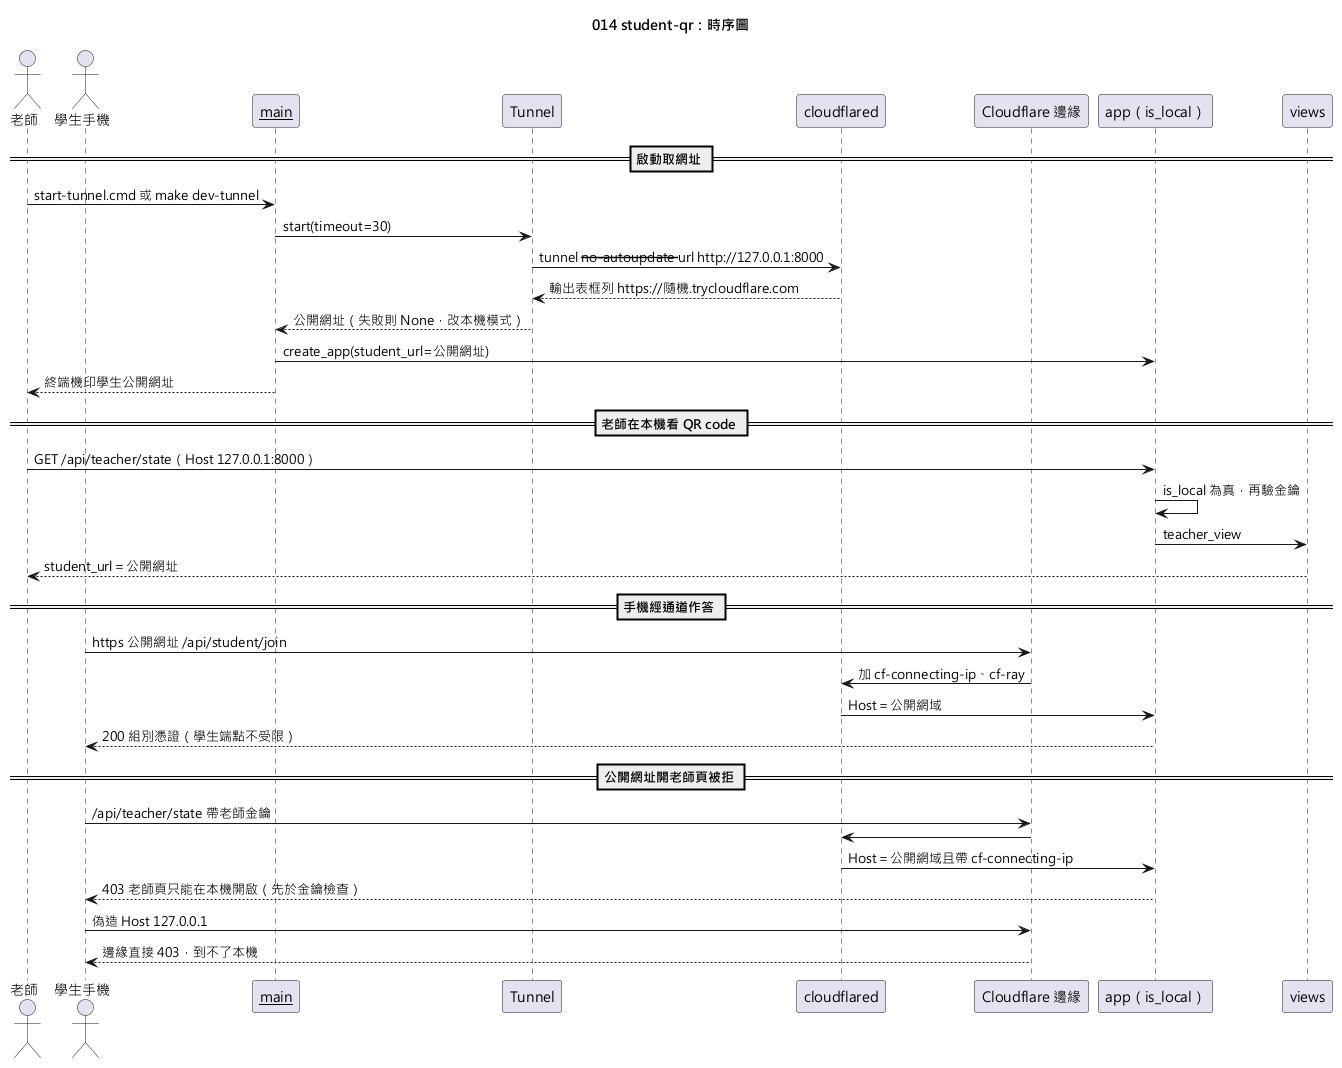
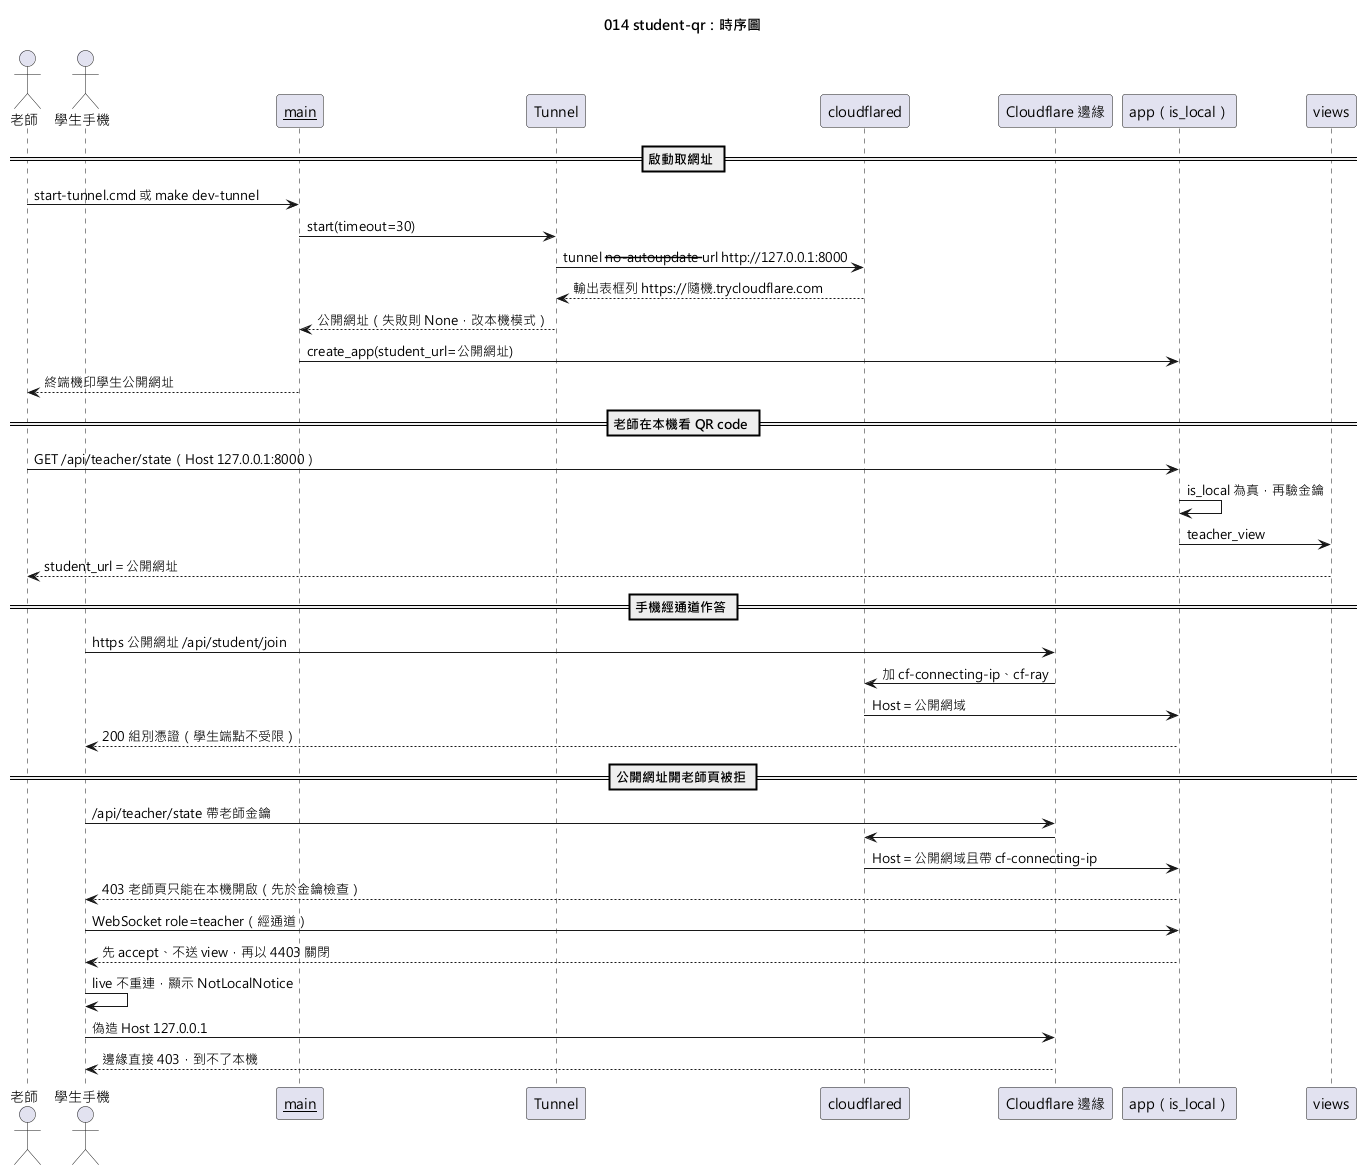
feat(web,server): [CORE] 014-student-qr——學生連結 QR、老師頁不在本機提示、4403 不重連（與 OpenSpec 組同批）
- 程式與 OpenSpec 組 f8b0264 逐字相同：學生連結分區（student_url ?? 本頁網址、複製、antd QRCode 220、本機提示）；live.ts 4401／4403 不重連；老師頁 4403 或 REST 403 顯示整頁 Result；老師 WebSocket 先 accept 再以 4403 關閉
- research R2 實作偏離回稿、新增 R5 前端；組件圖、時序圖補前端與 4403 流程並轉 PNG；verification 補真實 WebSocket 實測與 4401 followup

Claude-Session: https://claude.ai/code/session_01RbhMohvHgJfPtHEGWGxA2p

diff --git a/web/src/pages/Teacher.tsx b/web/src/pages/Teacher.tsx
@@ -1,4 +1,5 @@
 import {
+  CopyOutlined,
   AppstoreOutlined,
   FileTextOutlined,
   GoogleOutlined,
@@ -7,9 +8,9 @@ import {
   TableOutlined,
   TeamOutlined,
 } from "@ant-design/icons";
-import { Alert, Checkbox, Input, Menu, QRCode, Radio, Tag } from "antd";
+import { Alert, Checkbox, Input, Menu, QRCode, Radio, Result, Tag } from "antd";
 import { useCallback, useEffect, useRef, useState } from "react";
-import { type GoogleStatus, googleStatus, teacherDownload, teacherPost, teacherUpload } from "../api";
+import { ApiError, type GoogleStatus, googleStatus, teacherDownload, teacherPost, teacherUpload } from "../api";
 import { GooglePanel } from "./GooglePanel";
 import { ImportPanel } from "./ImportPanel";
 import { Board, type Judge, type ReviewReset } from "./Results";
@@ -211,20 +212,51 @@ export function TeamSettings({ view, act }: { view: TeacherView; act: Act }) {
   );
 }
 
-// 學生連結：伺服器給公開網址（student-qr）就用它，否則用本頁網址
-export function StudentLink({ url }: { url: string }) {
+// 學生連結：伺服器給公開網址（student-qr D3）就用它，否則用本頁網址
+export function StudentLink({ studentUrl }: { studentUrl?: string | null }) {
+  const url = studentUrl ?? `${window.location.origin}/`;
+  const [copied, setCopied] = useState(false);
+  const copy = () => {
+    void navigator.clipboard?.writeText(url).then(() => setCopied(true));
+  };
   return (
     <Section id="link" title="學生連結">
-      <div className="qz-qr">
-        <QRCode value={url} size={168} bordered={false} />
+      <div className="qz-qr" data-testid="student-qr" data-qr-value={url}>
+        <QRCode value={url} size={220} bordered={false} />
         <div className="stack" style={{ minWidth: 0, flex: 1 }}>
           <span className="muted">學生用手機掃描 QR code，或在瀏覽器輸入：</span>
           <a className="qz-url" href={url} target="_blank" rel="noreferrer">
             {url}
           </a>
+          <div>
+            <Btn icon={<CopyOutlined />} onClick={copy}>
+              {copied ? "已複製" : "複製連結"}
+            </Btn>
+          </div>
+          {!studentUrl && (
+            <Alert
+              type="info"
+              showIcon
+              message="目前只在本機可連；要讓手機掃碼請用 start-tunnel.cmd 或 make dev-tunnel 啟動"
+            />
+          )}
         </div>
       </div>
     </Section>
+  );
+}
+
+const NOT_LOCAL = "老師頁只能在本機開啟";
+
+// 經公開網址開老師頁：伺服器 WebSocket 以 4403 關閉、REST 回 403（student-qr D2）
+export function NotLocalNotice() {
+  return (
+    <Shell>
+      <GlassHeader title="課堂搶答・老師工作檯" />
+      <div className="qz-narrow">
+        <Result status="403" title={NOT_LOCAL} subTitle="請用 http://127.0.0.1:8000 開老師頁。" />
+      </div>
+    </Shell>
   );
 }
 
@@ -272,7 +304,7 @@ export function TeacherPanel({
           onReviewReset={reviewing ? reviewReset : undefined}
         />
       </Section>
-      <StudentLink url={view.student_url ?? `${window.location.origin}/`} />
+      <StudentLink studentUrl={view.student_url} />
       {google && (
         <GooglePanel status={google.status} waiting={google.waiting} onLogin={google.login} onLogout={google.logout} />
       )}
@@ -304,22 +336,28 @@ const NAV = [
 
 export default function Teacher({ teacherKey }: { teacherKey: string }) {
   const { view, closedCode } = useLiveView(`role=teacher&key=${encodeURIComponent(teacherKey)}`);
-  const [error, setError] = useState("");
+  const [error, setErrorText] = useState("");
+  const [notLocal, setNotLocal] = useState(false);
   const [active, setActive] = useState("control");
+  // REST 403「老師頁只能在本機開啟」改顯示整頁提示，其餘錯誤照常列在上方
+  const setError = (e: string | Error) => {
+    if (e instanceof ApiError && e.status === 403 && e.message === NOT_LOCAL) setNotLocal(true);
+    else setErrorText(typeof e === "string" ? e : e.message);
+  };
   const act: Act = (path, body) => {
     setError("");
-    teacherPost(path, teacherKey, body).catch((e: Error) => setError(e.message));
+    teacherPost(path, teacherKey, body).catch((e: Error) => setError(e));
   };
   const upload: Upload = (file) => {
     setError("");
-    teacherUpload(teacherKey, file).catch((e: Error) => setError(e.message));
+    teacherUpload(teacherKey, file).catch((e: Error) => setError(e));
   };
   const [exporting, setExporting] = useState(false);
   const download = () => {
     setError("");
     setExporting(true);
     teacherDownload(teacherKey)
-      .catch((e: Error) => setError(e.message))
+      .catch((e: Error) => setError(e))
       .finally(() => setExporting(false));
   };
   const [gStatus, setGStatus] = useState<GoogleStatus | null>(null);
@@ -333,7 +371,10 @@ export default function Teacher({ teacherKey }: { teacherKey: string }) {
           setGStatus(s);
           if (s.signed_in) setWaiting(false);
         })
-        .catch(() => undefined),
+        .catch((e: unknown) => {
+          // 開頁就會查 Google 狀態：經公開網址時這裡最先收到 403
+          if (e instanceof ApiError && e.status === 403 && e.message === NOT_LOCAL) setNotLocal(true);
+        }),
     [teacherKey],
   );
   useEffect(() => {
@@ -372,7 +413,7 @@ export default function Teacher({ teacherKey }: { teacherKey: string }) {
       setError("");
       teacherPost("google/logout", teacherKey)
         .then(() => refreshGoogle())
-        .catch((e: Error) => setError(e.message));
+        .catch((e: Error) => setError(e));
     },
   };
   const actWithGoogle: Act = (path, body) => {
@@ -381,7 +422,7 @@ export default function Teacher({ teacherKey }: { teacherKey: string }) {
     teacherPost(path, teacherKey, body)
       .then((r) => setSheetUrl((r as { sheet_url?: string }).sheet_url ?? null))
       .catch((e: Error) => {
-        setError(e.message);
+        setError(e);
         void refreshGoogle();
       });
   };
@@ -391,11 +432,12 @@ export default function Teacher({ teacherKey }: { teacherKey: string }) {
     teacherPost("export-sheet", teacherKey)
       .then((r) => setSheetUrl((r as { url: string }).url))
       .catch((e: Error) => {
-        setError(e.message);
+        setError(e);
         void refreshGoogle();
       })
       .finally(() => setExporting(false));
   };
+  if (closedCode === 4403 || notLocal) return <NotLocalNotice />;
   if (closedCode === 4401)
     return (
       <Shell>

diff --git a/web/src/live.test.tsx b/web/src/live.test.tsx
@@ -1,0 +1,48 @@
+import { act, renderHook } from "@testing-library/react";
+import { shouldReconnect, useLiveView } from "./live";
+
+class FakeSocket {
+  static all: FakeSocket[] = [];
+  onopen: (() => void) | null = null;
+  onmessage: ((ev: { data: string }) => void) | null = null;
+  onclose: ((ev: { code: number }) => void) | null = null;
+  constructor(public url: string) {
+    FakeSocket.all.push(this);
+  }
+  close() {}
+}
+
+describe("useLiveView 重連（student-qr D2）", () => {
+  const original = globalThis.WebSocket;
+  beforeEach(() => {
+    FakeSocket.all = [];
+    vi.useFakeTimers();
+    (globalThis as unknown as { WebSocket: unknown }).WebSocket = FakeSocket;
+  });
+  afterEach(() => {
+    vi.useRealTimers();
+    globalThis.WebSocket = original;
+  });
+
+  it("4401、4403 不重連；其他關閉碼重連", () => {
+    expect(shouldReconnect(4401)).toBe(false);
+    expect(shouldReconnect(4403)).toBe(false);
+    expect(shouldReconnect(1006)).toBe(true);
+  });
+
+  it("收到 4403 後 5 秒內不再開新連線，且回報關閉碼", () => {
+    const { result } = renderHook(() => useLiveView("role=teacher&key=k"));
+    expect(FakeSocket.all).toHaveLength(1);
+    act(() => FakeSocket.all[0].onclose?.({ code: 4403 }));
+    act(() => vi.advanceTimersByTime(5000));
+    expect(FakeSocket.all).toHaveLength(1);
+    expect(result.current.closedCode).toBe(4403);
+  });
+
+  it("一般斷線（1006）1 秒後重連", () => {
+    renderHook(() => useLiveView("role=student&token=t"));
+    act(() => FakeSocket.all[0].onclose?.({ code: 1006 }));
+    act(() => vi.advanceTimersByTime(1100));
+    expect(FakeSocket.all).toHaveLength(2);
+  });
+});

diff --git a/web/src/pages/qr.test.tsx b/web/src/pages/qr.test.tsx
@@ -1,0 +1,28 @@
+import { render, screen } from "@testing-library/react";
+import { NotLocalNotice, StudentLink } from "./Teacher";
+
+describe("學生連結（student-qr D3）", () => {
+  it("有 student_url 時 QR 值與顯示網址都等於它，不顯示本機提示", () => {
+    const url = "https://penny-cheap-centered-fewer.trycloudflare.com/";
+    render(<StudentLink studentUrl={url} />);
+    expect(screen.getByTestId("student-qr")).toHaveAttribute("data-qr-value", url);
+    expect(screen.getByText(url)).toBeInTheDocument();
+    expect(screen.queryByText(/目前只在本機可連/)).toBeNull();
+    expect(screen.getByText("複製連結")).toBeInTheDocument();
+  });
+
+  it("student_url 為 null 時退回本頁網址並提示用通道啟動", () => {
+    render(<StudentLink studentUrl={null} />);
+    const origin = `${window.location.origin}/`;
+    expect(screen.getByTestId("student-qr")).toHaveAttribute("data-qr-value", origin);
+    expect(screen.getByText(/目前只在本機可連；要讓手機掃碼請用 start-tunnel.cmd 或 make dev-tunnel 啟動/)).toBeInTheDocument();
+  });
+});
+
+describe("老師頁不在本機（student-qr D2）", () => {
+  it("顯示本機提示與正確網址", () => {
+    render(<NotLocalNotice />);
+    expect(screen.getByText("老師頁只能在本機開啟")).toBeInTheDocument();
+    expect(screen.getByText(/http:\/\/127\.0\.0\.1:8000/)).toBeInTheDocument();
+  });
+});

diff --git a/web/src/live.ts b/web/src/live.ts
@@ -2,6 +2,13 @@ import { useEffect, useState } from "react";
 import type { View } from "./types";
 
 // 連上 /ws 並持續接收自己的 view；斷線每 1 秒重連（app-skeleton D4）。
+// 金鑰錯誤（4401）與老師頁不在本機（4403，student-qr D2）重連也不會好，不重連，避免無限重試
+export const NO_RECONNECT = new Set([4401, 4403]);
+
+export function shouldReconnect(code: number): boolean {
+  return !NO_RECONNECT.has(code);
+}
+
 export function useLiveView(query: string): { view: View | null; connected: boolean; closedCode: number | null } {
   const [view, setView] = useState<View | null>(null);
   const [connected, setConnected] = useState(false);
@@ -22,8 +29,7 @@ export function useLiveView(query: string): { view: View | null; connected: bool
       socket.onclose = (ev) => {
         setConnected(false);
         setClosedCode(ev.code);
-        // 金鑰錯誤（4401）不重連，避免無限重試
-        if (!stopped && ev.code !== 4401) timer = setTimeout(connect, 1000);
+        if (!stopped && shouldReconnect(ev.code)) timer = setTimeout(connect, 1000);
       };
     };
     connect();

diff --git a/web/src/types.ts b/web/src/types.ts
@@ -34,7 +34,6 @@ export interface QuestionOutline {
 export interface TeacherView {
   role: "teacher";
   phase: Phase;
-  student_url?: string; // student-qr：伺服器給的學生公開網址；沒有就用本頁網址
   teams: string[];
   joined: string[];
   source: string | null;

diff --git a/server/quiz_server/app.py b/server/quiz_server/app.py
@@ -422,6 +422,9 @@ def create_app(activity: Activity | None = None, teacher_key: str | None = None,
             await socket.close(code=1008)
             return
         if role == "teacher" and not is_local(socket.headers):
+            # 先 accept 再關：交握前就關，瀏覽器只會收到 HTTP 403、關閉碼變 1006，前端無從分辨
+            #（student-qr 實作偏離回稿）；accept 後不送任何 view 就關閉
+            await socket.accept()
             await socket.close(code=WS_NOT_LOCAL)
             return
         if role == "teacher" and not is_teacher(key):

diff --git a/specs/014-student-qr/research.md b/specs/014-student-qr/research.md
@@ -13,7 +13,7 @@
 
 ## R2 老師身分只在本機
 
-- **Decision**：`app.is_local(headers)`：Host 去掉埠後小寫 ∈ `LOCAL_HOSTNAMES = {127.0.0.1, localhost, [::1]}`，且無 `cf-connecting-ip`、`cf-ray`。`require_teacher` 在驗金鑰前檢查（403「老師頁只能在本機開啟」）；老師 WebSocket 不符 ⇒ 4403；Google 回呼不符 ⇒ 403 固定 HTML。測試：conftest autouse fixture 把 TestClient 的 `testserver` 加進 `LOCAL_HOSTNAMES`（正式碼不含）。
+- **Decision**：`app.is_local(headers)`：Host 去掉埠後小寫 ∈ `LOCAL_HOSTNAMES = {127.0.0.1, localhost, [::1]}`，且無 `cf-connecting-ip`、`cf-ray`。`require_teacher` 在驗金鑰前檢查（403「老師頁只能在本機開啟」）；老師 WebSocket 不符 ⇒ **先 accept、不送任何 view** 再以 4403 關閉（實作偏離回稿：交握前就關，瀏覽器只收到 HTTP 403、關閉碼為 1006，前端無從分辨；真實用戶端實測帶 `cf-connecting-ip` 收到關閉碼 4403）；Google 回呼不符 ⇒ 403 固定 HTML。測試：conftest autouse fixture 把 TestClient 的 `testserver` 加進 `LOCAL_HOSTNAMES`（正式碼不含）。
 - **Rationale**：經通道的 Host 是公開網域，且 Cloudflare 邊緣一定加 `cf-connecting-ip`；雙條件任一被繞過另一條仍擋。
 - **Alternatives**：以 `client.host` 判斷（不採：uvicorn 預設信任 127.0.0.1 的 `X-Forwarded-For` 改寫它，而通道請求都從 127.0.0.1 進來）。
 - **證偽欄｜可證偽**：探針②經通道「'host': 'penny-cheap-centered-fewer.trycloudflare.com'」「'cf-connecting-ip 存在': True」；④「經通道偽造 Host: 127.0.0.1:8020：HTTP 403」；②對照「本機直連、偽造 Host 與 X-Forwarded-For：'client.host': '1.2.3.4'」。變異實錄：拿掉標頭條件 1 failed、一律放行 5 failed。
@@ -22,6 +22,11 @@
 
 - **Decision**：`Activity.public_url`（伺服器設定，重置與重新匯入保留），由 `create_app(student_url=)` 設定；`teacher_view` 帶 `student_url`（無通道為 `null`）；學生 view 不帶。
 - **證偽欄｜可證偽**：`test_student_url_only_in_teacher_view`；真棧「本機老師 view student_url：https://maui-graphic-latino-logistics.trycloudflare.com/」。
+
+## R5 前端（web-workbench 合入後接上；實作輪架構藥方）
+
+- **Decision**：`live.ts` `NO_RECONNECT = {4401, 4403}`、`shouldReconnect(code)`，4403 不重連；老師頁收到 WebSocket 4403 或任何老師 REST（含開頁即查的 Google 狀態）回 403「老師頁只能在本機開啟」⇒ 整頁 antd `Result`「老師頁只能在本機開啟」「請用 http://127.0.0.1:8000 開老師頁。」；「學生連結」分區顯示 `student_url ?? origin + "/"`、「複製連結」、antd `QRCode`（220 px），`student_url` 為 null 時提示「目前只在本機可連；要讓手機掃碼請用 start-tunnel.cmd 或 make dev-tunnel 啟動」。
+- **證偽欄｜可證偽**：`web/src/live.test.tsx`（4403 後 5 秒內不開新連線、1006 一秒後重連）；`web/src/pages/qr.test.tsx`（QR 值＝`student_url`；null 退回 origin 並提示；本機提示文案）。
 
 ## R4 不變
 

diff --git a/README.md b/README.md
@@ -33,7 +33,7 @@ winget install --id OpenJS.NodeJS.LTS -e
 
 老師頁網址含老師金鑰，不要給學生。關閉視窗（或按 Ctrl+C）就停止伺服器，活動隨之清空。
 
-**讓手機掃 QR code 進學生頁**（選用）：先安裝 cloudflared（PowerShell 執行 `winget install --id Cloudflare.cloudflared -e`），改雙擊 **`start-tunnel.cmd`**（終端機：`make dev-tunnel`）。視窗多印一行 `https://….trycloudflare.com/` 的學生網址，老師頁會顯示它的 QR code；手機用 4G 也能連，不必與電腦同一個 Wi-Fi。新網址約 1 分鐘後才連得上，每次啟動都不同。老師頁**只能在本機**（`127.0.0.1`）開啟，用公開網址開會顯示「老師頁只能在本機開啟」。找不到 cloudflared 時照常以本機模式啟動。
+**讓手機掃 QR code 進學生頁**（選用）：先安裝 cloudflared（PowerShell 執行 `winget install --id Cloudflare.cloudflared -e`），改雙擊 **`start-tunnel.cmd`**（終端機：`make dev-tunnel`）。視窗多印一行 `https://….trycloudflare.com/` 的學生網址，老師頁左側「學生連結」區會顯示它的 QR code 與「複製連結」按鈕（未用通道時該區顯示本機網址並提示改用 `start-tunnel.cmd`）；手機用 4G 也能連，不必與電腦同一個 Wi-Fi。新網址約 1 分鐘後才連得上，每次啟動都不同。老師頁**只能在本機**（`127.0.0.1`）開啟，用公開網址開會顯示「老師頁只能在本機開啟，請用 http://127.0.0.1:8000 開老師頁」。找不到 cloudflared 時照常以本機模式啟動。
 
 ### 一場活動
 

diff --git a/docs/manual-verification.md b/docs/manual-verification.md
@@ -118,9 +118,9 @@
 前置：已安裝 cloudflared（`winget install --id Cloudflare.cloudflared -e`）；手機關掉 Wi-Fi 改用 4G。
 
 1. 雙擊 `start-tunnel.cmd` ⇒ 視窗印出「學生頁（手機掃老師頁的 QR code，或直接開）：https://….trycloudflare.com/」。
-2. 等約 1 分鐘，以本機開老師頁 ⇒ 老師頁顯示學生網址的 QR code，網址與視窗印的相同。
+2. 等約 1 分鐘，以本機開老師頁 ⇒ 左側導覽「學生連結」區顯示學生網址的 QR code，網址與視窗印的相同；按「複製連結」變「已複製」。（以 `start.cmd` 啟動時同一區顯示本機網址，並提示「目前只在本機可連；要讓手機掃碼請用 start-tunnel.cmd 或 make dev-tunnel 啟動」。）
 3. 手機掃 QR code ⇒ 開啟學生頁，可選第1組加入；電腦另開一個學生分頁選第2組。匯入題目、開始搶答，手機送出第 3 題 ⇒ 老師表即時出現，電腦第2組看不到。
-4. 電腦瀏覽器改用公開網址開老師頁（`https://….trycloudflare.com/#/teacher?key=<金鑰>`）⇒ 顯示「老師頁只能在本機開啟」，看不到任何活動資料。
+4. 電腦瀏覽器改用公開網址開老師頁（`https://….trycloudflare.com/#/teacher?key=<金鑰>`）⇒ 顯示「老師頁只能在本機開啟」與「請用 http://127.0.0.1:8000 開老師頁。」，不會停在「連線中…」，看不到任何活動資料。
 5. 關閉視窗 ⇒ 手機學生頁斷線；工作管理員裡沒有殘留的 `cloudflared.exe`。
 
 ## 4. Demo 影片可順便錄

diff --git a/specs/014-student-qr/verification.md b/specs/014-student-qr/verification.md
@@ -2,9 +2,18 @@
 
 ## 評審紀錄
 
-S 檔壓縮版一輪（提案輪架構全卡掃＋實作輪對抗 diff，雙通道，與 OpenSpec 組同批）：架構 **CLEARED（0B/3M/1m）**、對抗 **CLEARED（0B/0M/1m）**。藥方落點同 OpenSpec 組 `openspec/changes/student-qr/verification.md`（程式逐字相同）；前端 4403 提示與學生連結 QR 待 `web-workbench` 合入後接上。
+S 檔壓縮版一輪（提案輪架構全卡掃＋實作輪對抗 diff，雙通道，與 OpenSpec 組同批）：架構 **CLEARED（0B/3M/1m）**、對抗 **CLEARED（0B/0M/1m）**。藥方落點同 OpenSpec 組 `openspec/changes/student-qr/verification.md`（程式逐字相同）；前端 4403 提示與學生連結 QR 已於 rebase 到 `web-workbench` 後落地（research R2、R5）。
+
+## 真實 WebSocket 用戶端（4403 關閉碼）
+
+```
+帶 cf-connecting-ip 的老師 WS 關閉碼： 4403
+本機老師 WS 第一則： {"type":"state","seq":1,"view"
+```
 
 ## followup（不阻塞）
+
+- 老師金鑰錯誤（4401）仍在交握前關閉，瀏覽器實際收到 1006 而非 4401，「老師金鑰錯誤」提示顯示不出來（現行行為，本卡不改）。實測：`websockets.connect(".../ws?role=teacher&key=wrong")` → 「錯誤金鑰老師 WS：交握被拒 HTTP 403」。主人：@yue083139。
 
 - 以 `--host 0.0.0.0` 啟動時，同區網的人偽造 `Host: 127.0.0.1` 且不帶 Cloudflare 標頭會被判為本機——仍須老師金鑰，與改版前同強度；預設只綁 127.0.0.1，不另處理。主人：@yue083139。
 

diff --git a/specs/014-student-qr/tasks.md b/specs/014-student-qr/tasks.md
@@ -27,5 +27,5 @@
 - [x] T031 變異實錄、真棧（`probes/results/2026-11-26-student-qr-real-stack.txt`）
 - [x] T032 圖表與程式一致性檢查（原則 VII）
 - [x] T033 實作輪評審（對抗通道，只掃 diff；CLEARED 0B/0M/1m）；藥方落地
-- [ ] T035 前端：`live.ts` 遇 4403 不重連、老師頁提示「老師頁只能在本機開啟」；學生連結 QR（`student_url ?? origin`，antd `QRCode`）——待 `web-workbench` 合入後
+- [x] T035 前端：`live.ts` 遇 4403 不重連、老師頁提示「老師頁只能在本機開啟」；學生連結 QR（`student_url ?? origin`，antd `QRCode`）——待 `web-workbench` 合入後
 - [ ] T034 人工驗證（負責人，場次 F）
